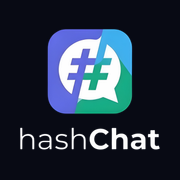
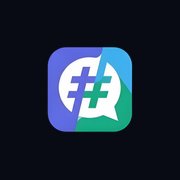
feat(seo): robots, sitemap, structured data, OG card, llms.txt
Technical SEO plus the machine-readable layer that answer engines
actually read.

JSON-LD ships as one @graph — Organization, WebSite,
SoftwareApplication and FAQPage — rather than four loose scripts,
because the @id cross-references between them only resolve inside a
shared document. The FAQPage block is the piece that matters for AI
assistants: they quote question/answer pairs close to verbatim, so the
things a buyer asks before paying (who owns the number, what Meta
charges on top, what the trial includes) are the ones worth exposing.

Deliberately no aggregateRating. The product has no public reviews;
inventing one is dishonest and is also exactly what earns a manual
action rather than a rich result.

OG card is a static PNG, not a generated route. Social scrapers fetch
once and don't retry, so an OG endpoint that is cold or erroring the
first time a link is shared costs the preview permanently.

Fixed a real asset bug while making it: the brand PNG is a lockup with
the wordmark under the mark, so every place that pairs the logo with
the site name — nav, footer, and the first OG card — rendered
"hashChat" twice. Found the transparent band between mark and wordmark
and re-cut all the logo sizes and icons to the mark alone.

llms.txt states the offer in plain prose for LLM crawlers, including
the part a summary usually drops: Meta's per-conversation charge is
Meta's, not ours, and replies inside 24 hours are free.
[…]

Changed region(s): [[0.1111, 0.1389, 0.8889, 0.8333]]

diff --git a/src/components/structured-data.tsx b/src/components/structured-data.tsx
@@ -1,0 +1,91 @@
+import { CURRENCY, faqs, plans, site } from "@/lib/content";
+
+/**
+ * JSON-LD for search engines and AI answer engines.
+ *
+ * The FAQPage block matters most here: assistants quote question/answer
+ * pairs almost verbatim, so the answers people actually ask before
+ * buying — who owns the number, what Meta charges, what the trial is —
+ * are the ones worth making machine-readable.
+ *
+ * Nothing is claimed that isn't true. There is deliberately no
+ * `aggregateRating`: the product has no public reviews, and inventing
+ * one is both dishonest and against Google's structured data policy —
+ * it earns a manual action, not a rich result.
+ */
+export function StructuredData() {
+  const organization = {
+    "@type": "Organization",
+    "@id": `${site.url}/#organization`,
+    name: site.name,
+    url: site.url,
+    logo: `${site.url}/logo-512.png`,
+    parentOrganization: {
+      "@type": "Organization",
+      name: site.company,
+      url: site.companyUrl,
+    },
+    address: {
+      "@type": "PostalAddress",
+      addressLocality: "Lahore",
+      addressCountry: "PK",
+    },
+  };
+
+  const software = {
+    "@type": "SoftwareApplication",
+    "@id": `${site.url}/#software`,
+    name: site.name,
+    applicationCategory: "BusinessApplication",
+    applicationSubCategory: "CRM",
+    operatingSystem: "Web, Android",
+    url: site.url,
+    publisher: { "@id": `${site.url}/#organization` },
+    description:
+      "Shared WhatsApp inbox for teams, with contacts, sales pipelines, broadcasts, automations and AI replies.",
+    // One offer per plan, so a price range can be derived rather than
+    // guessed at.
+    offers: plans.map((p) => ({
+      "@type": "Offer",
+      name: p.name,
+      price: p.price,
+      priceCurrency: CURRENCY,
+      category: "subscription",
+      url: `${site.url}/#pricing`,
+    })),
+  };
+
+  const faqPage = {
+    "@type": "FAQPage",
+    "@id": `${site.url}/#faq`,
+    mainEntity: faqs.map((f) => ({
+      "@type": "Question",
+      name: f.q,
+      acceptedAnswer: { "@type": "Answer", text: f.a },
+    })),
+  };
+
+  const website = {
+    "@type": "WebSite",
+    "@id": `${site.url}/#website`,
+    url: site.url,
+    name: site.name,
+    publisher: { "@id": `${site.url}/#organization` },
+    inLanguage: "en-PK",
+  };
+
+  // One graph rather than four separate script tags — the @id
+  // references above only resolve if the nodes share a document.
+  const graph = {
+    "@context": "https://schema.org",
+    "@graph": [organization, website, software, faqPage],
+  };
+
+  return (
+    <script
+      type="application/ld+json"
+      // Content is ours and static; there is no user input in this tree.
+      dangerouslySetInnerHTML={{ __html: JSON.stringify(graph) }}
+    />
+  );
+}

diff --git a/src/app/layout.tsx b/src/app/layout.tsx
@@ -39,12 +39,23 @@ export const metadata: Metadata = {
     title: "hashChat — WhatsApp CRM for teams",
     description:
       "Ek shared WhatsApp inbox jise poori team chala sake. Contacts, pipelines, broadcasts aur automations — sab ek jagah.",
+    // A static file, not a generated route: social scrapers fetch once
+    // and do not retry, so an OG endpoint that is cold or erroring at
+    // the moment a link is first shared costs you the preview for good.
+    images: [
+      {
+        url: "/og.png",
+        width: 1200,
+        height: 630,
+        alt: "hashChat — poori team ka ek WhatsApp inbox",
+      },
+    ],
   },
   twitter: {
     card: "summary_large_image",
     title: "hashChat — WhatsApp CRM for teams",
-    description:
-      "Ek shared WhatsApp inbox jise poori team chala sake.",
+    description: "Ek shared WhatsApp inbox jise poori team chala sake.",
+    images: ["/og.png"],
   },
   alternates: { canonical: SITE_URL },
 };

diff --git a/src/app/robots.ts b/src/app/robots.ts
@@ -1,0 +1,22 @@
+import type { MetadataRoute } from "next";
+
+import { site } from "@/lib/content";
+
+/**
+ * Served at /robots.txt.
+ *
+ * Everything is crawlable — this is a marketing page and there is
+ * nothing here to hide. The app lives on a different host and sets its
+ * own `noindex`, so nothing needs excluding from this side.
+ *
+ * AI crawlers are deliberately allowed too. A CRM is exactly the kind
+ * of product people now ask an assistant to recommend, and blocking
+ * those agents removes the site from that answer entirely.
+ */
+export default function robots(): MetadataRoute.Robots {
+  return {
+    rules: [{ userAgent: "*", allow: "/" }],
+    sitemap: `${site.url}/sitemap.xml`,
+    host: site.url,
+  };
+}

diff --git a/src/app/sitemap.ts b/src/app/sitemap.ts
@@ -1,0 +1,21 @@
+import type { MetadataRoute } from "next";
+
+import { site } from "@/lib/content";
+
+/**
+ * Served at /sitemap.xml.
+ *
+ * One page today. The section anchors are not listed: they are
+ * fragments of this same URL, and submitting them as separate entries
+ * tells a crawler there are five pages when there is one.
+ */
+export default function sitemap(): MetadataRoute.Sitemap {
+  return [
+    {
+      url: site.url,
+      lastModified: new Date(),
+      changeFrequency: "monthly",
+      priority: 1,
+    },
+  ];
+}

diff --git a/src/app/page.tsx b/src/app/page.tsx
@@ -6,10 +6,12 @@ import { HowItWorks } from "@/components/how-it-works";
 import { Pricing } from "@/components/pricing";
 import { SiteFooter } from "@/components/site-footer";
 import { SiteNav } from "@/components/site-nav";
+import { StructuredData } from "@/components/structured-data";
 
 export default function HomePage() {
   return (
     <>
+      <StructuredData />
       <SiteNav />
       <main>
         <Hero />
